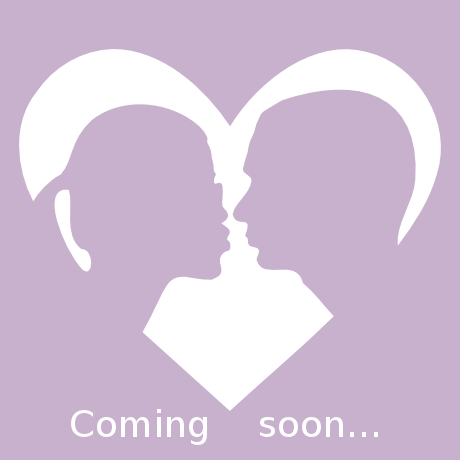
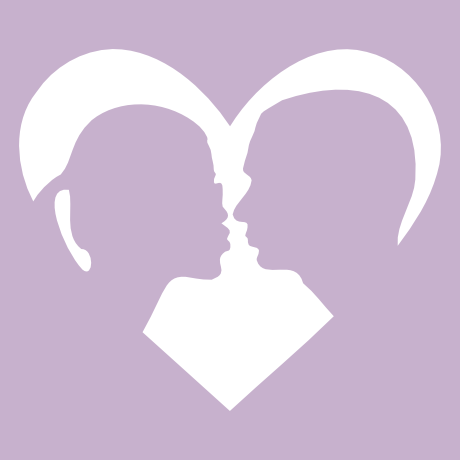
Added small animation to hide the tags

Changed region(s): [[0.1522, 0.8826, 0.4565, 0.9739], [0.5478, 0.8826, 0.7609, 0.9739]]

diff --git a/js/tween.min.js b/js/tween.min.js
@@ -1,0 +1,15 @@
+// tween.js - http://github.com/sole/tween.js
+'use strict';void 0===Date.now&&(Date.now=function(){return(new Date).valueOf()});
+var TWEEN=TWEEN||function(){var a=[];return{REVISION:"12",getAll:function(){return a},removeAll:function(){a=[]},add:function(c){a.push(c)},remove:function(c){c=a.indexOf(c);-1!==c&&a.splice(c,1)},update:function(c){if(0===a.length)return!1;for(var b=0,c=void 0!==c?c:"undefined"!==typeof window&&void 0!==window.performance&&void 0!==window.performance.now?window.performance.now():Date.now();b<a.length;)a[b].update(c)?b++:a.splice(b,1);return!0}}}();
+TWEEN.Tween=function(a){var c={},b={},d={},e=1E3,g=0,h=!1,j=!1,q=0,m=null,v=TWEEN.Easing.Linear.None,w=TWEEN.Interpolation.Linear,n=[],r=null,s=!1,t=null,u=null,k;for(k in a)c[k]=parseFloat(a[k],10);this.to=function(a,c){void 0!==c&&(e=c);b=a;return this};this.start=function(e){TWEEN.add(this);j=!0;s=!1;m=void 0!==e?e:"undefined"!==typeof window&&void 0!==window.performance&&void 0!==window.performance.now?window.performance.now():Date.now();m+=q;for(var f in b){if(b[f]instanceof Array){if(0===b[f].length)continue;
+b[f]=[a[f]].concat(b[f])}c[f]=a[f];!1===c[f]instanceof Array&&(c[f]*=1);d[f]=c[f]||0}return this};this.stop=function(){if(!j)return this;TWEEN.remove(this);j=!1;this.stopChainedTweens();return this};this.stopChainedTweens=function(){for(var a=0,b=n.length;a<b;a++)n[a].stop()};this.delay=function(a){q=a;return this};this.repeat=function(a){g=a;return this};this.yoyo=function(a){h=a;return this};this.easing=function(a){v=a;return this};this.interpolation=function(a){w=a;return this};this.chain=function(){n=
+arguments;return this};this.onStart=function(a){r=a;return this};this.onUpdate=function(a){t=a;return this};this.onComplete=function(a){u=a;return this};this.update=function(p){var f;if(p<m)return!0;!1===s&&(null!==r&&r.call(a),s=!0);var i=(p-m)/e,i=1<i?1:i,j=v(i);for(f in b){var k=c[f]||0,l=b[f];l instanceof Array?a[f]=w(l,j):("string"===typeof l&&(l=k+parseFloat(l,10)),"number"===typeof l&&(a[f]=k+(l-k)*j))}null!==t&&t.call(a,j);if(1==i)if(0<g){isFinite(g)&&g--;for(f in d)"string"===typeof b[f]&&
+(d[f]+=parseFloat(b[f],10)),h&&(i=d[f],d[f]=b[f],b[f]=i),c[f]=d[f];m=p+q}else{null!==u&&u.call(a);f=0;for(i=n.length;f<i;f++)n[f].start(p);return!1}return!0}};
+TWEEN.Easing={Linear:{None:function(a){return a}},Quadratic:{In:function(a){return a*a},Out:function(a){return a*(2-a)},InOut:function(a){return 1>(a*=2)?0.5*a*a:-0.5*(--a*(a-2)-1)}},Cubic:{In:function(a){return a*a*a},Out:function(a){return--a*a*a+1},InOut:function(a){return 1>(a*=2)?0.5*a*a*a:0.5*((a-=2)*a*a+2)}},Quartic:{In:function(a){return a*a*a*a},Out:function(a){return 1- --a*a*a*a},InOut:function(a){return 1>(a*=2)?0.5*a*a*a*a:-0.5*((a-=2)*a*a*a-2)}},Quintic:{In:function(a){return a*a*a*
+a*a},Out:function(a){return--a*a*a*a*a+1},InOut:function(a){return 1>(a*=2)?0.5*a*a*a*a*a:0.5*((a-=2)*a*a*a*a+2)}},Sinusoidal:{In:function(a){return 1-Math.cos(a*Math.PI/2)},Out:function(a){return Math.sin(a*Math.PI/2)},InOut:function(a){return 0.5*(1-Math.cos(Math.PI*a))}},Exponential:{In:function(a){return 0===a?0:Math.pow(1024,a-1)},Out:function(a){return 1===a?1:1-Math.pow(2,-10*a)},InOut:function(a){return 0===a?0:1===a?1:1>(a*=2)?0.5*Math.pow(1024,a-1):0.5*(-Math.pow(2,-10*(a-1))+2)}},Circular:{In:function(a){return 1-
+Math.sqrt(1-a*a)},Out:function(a){return Math.sqrt(1- --a*a)},InOut:function(a){return 1>(a*=2)?-0.5*(Math.sqrt(1-a*a)-1):0.5*(Math.sqrt(1-(a-=2)*a)+1)}},Elastic:{In:function(a){var c,b=0.1;if(0===a)return 0;if(1===a)return 1;!b||1>b?(b=1,c=0.1):c=0.4*Math.asin(1/b)/(2*Math.PI);return-(b*Math.pow(2,10*(a-=1))*Math.sin((a-c)*2*Math.PI/0.4))},Out:function(a){var c,b=0.1;if(0===a)return 0;if(1===a)return 1;!b||1>b?(b=1,c=0.1):c=0.4*Math.asin(1/b)/(2*Math.PI);return b*Math.pow(2,-10*a)*Math.sin((a-c)*
+2*Math.PI/0.4)+1},InOut:function(a){var c,b=0.1;if(0===a)return 0;if(1===a)return 1;!b||1>b?(b=1,c=0.1):c=0.4*Math.asin(1/b)/(2*Math.PI);return 1>(a*=2)?-0.5*b*Math.pow(2,10*(a-=1))*Math.sin((a-c)*2*Math.PI/0.4):0.5*b*Math.pow(2,-10*(a-=1))*Math.sin((a-c)*2*Math.PI/0.4)+1}},Back:{In:function(a){return a*a*(2.70158*a-1.70158)},Out:function(a){return--a*a*(2.70158*a+1.70158)+1},InOut:function(a){return 1>(a*=2)?0.5*a*a*(3.5949095*a-2.5949095):0.5*((a-=2)*a*(3.5949095*a+2.5949095)+2)}},Bounce:{In:function(a){return 1-
+TWEEN.Easing.Bounce.Out(1-a)},Out:function(a){return a<1/2.75?7.5625*a*a:a<2/2.75?7.5625*(a-=1.5/2.75)*a+0.75:a<2.5/2.75?7.5625*(a-=2.25/2.75)*a+0.9375:7.5625*(a-=2.625/2.75)*a+0.984375},InOut:function(a){return 0.5>a?0.5*TWEEN.Easing.Bounce.In(2*a):0.5*TWEEN.Easing.Bounce.Out(2*a-1)+0.5}}};
+TWEEN.Interpolation={Linear:function(a,c){var b=a.length-1,d=b*c,e=Math.floor(d),g=TWEEN.Interpolation.Utils.Linear;return 0>c?g(a[0],a[1],d):1<c?g(a[b],a[b-1],b-d):g(a[e],a[e+1>b?b:e+1],d-e)},Bezier:function(a,c){var b=0,d=a.length-1,e=Math.pow,g=TWEEN.Interpolation.Utils.Bernstein,h;for(h=0;h<=d;h++)b+=e(1-c,d-h)*e(c,h)*a[h]*g(d,h);return b},CatmullRom:function(a,c){var b=a.length-1,d=b*c,e=Math.floor(d),g=TWEEN.Interpolation.Utils.CatmullRom;return a[0]===a[b]?(0>c&&(e=Math.floor(d=b*(1+c))),g(a[(e-
+1+b)%b],a[e],a[(e+1)%b],a[(e+2)%b],d-e)):0>c?a[0]-(g(a[0],a[0],a[1],a[1],-d)-a[0]):1<c?a[b]-(g(a[b],a[b],a[b-1],a[b-1],d-b)-a[b]):g(a[e?e-1:0],a[e],a[b<e+1?b:e+1],a[b<e+2?b:e+2],d-e)},Utils:{Linear:function(a,c,b){return(c-a)*b+a},Bernstein:function(a,c){var b=TWEEN.Interpolation.Utils.Factorial;return b(a)/b(c)/b(a-c)},Factorial:function(){var a=[1];return function(c){var b=1,d;if(a[c])return a[c];for(d=c;1<d;d--)b*=d;return a[c]=b}}(),CatmullRom:function(a,c,b,d,e){var a=0.5*(b-a),d=0.5*(d-c),g=
+e*e;return(2*c-2*b+a+d)*e*g+(-3*c+3*b-2*a-d)*g+a*e+c}}};

diff --git a/plus/index.html b/plus/index.html
@@ -71,6 +71,7 @@
     </div>
     <script src='/js/chilitags.js'></script>
     <script src='/js/three.min.js'></script>
+    <script src='/js/tween.min.js'></script>
     <script type='text/javascript'>
       //<![CDATA[
         var objects = {};
@@ -89,7 +90,21 @@
         
         var root;
         var faceSize = 130;
-        var tagSize = 40;
+        var tagSizeDelta = 2;
+        var tagSize = 30;
+        
+        var started = false;
+        var map = THREE.ImageUtils.loadTexture('/img/silhouette.png');
+        var materials = [];
+        for (var i=0; i<4; i++) {
+             materials.push(new THREE.MeshBasicMaterial(
+                {map: map,
+                 overdraw: true,
+                 transparent: true,
+                 opacity: 0,
+                 side:THREE.DoubleSide
+                 }));
+        }
         
         function setCameraMatrix() {
             var far = 1000;
@@ -106,7 +121,7 @@
         function init() {
             var tagConfig = '%YAML:1.0\n';
             tagConfig += 'face:\n';
-            for (var i=0; i<=150; i++) {
+            for (var i=0; i<=160; i++) {
                 tagConfig += '  - tag: '+(4*i  )+'\n';
                 tagConfig += '    size: 30\n';
                 tagConfig += '    translation: [-30.0, -30.0, 0.]\n';
@@ -128,17 +143,21 @@
         
             root = new THREE.Object3D();
             root.matrixAutoUpdate = false;
-            var cube = new THREE.Mesh(
-                    new THREE.PlaneGeometry(faceSize, faceSize),
-                    new THREE.MeshBasicMaterial(
-                        {map: THREE.ImageUtils.loadTexture('/img/silhouette.png'),
-        overdraw: true,
-        side:THREE.DoubleSide}));
-            cube.position.x = tagSize/2;
-            cube.position.y = tagSize/2;
-            cube.rotation.x = Math.PI;
-            root.add(cube);
-            scene.add(root);
+            var corners = [
+                [-30.0, -30.0],
+                [ 30.0, -30.0],
+                [-30.0,  30.0],
+                [ 30.0,  30.0]
+            ];
+            for (var i = 0; i<4; i++) {
+                var cube = new THREE.Mesh(
+                        new THREE.PlaneGeometry(tagSize+tagSizeDelta, tagSize+tagSizeDelta), materials[i]);
+                cube.position.x = (tagSizeDelta+tagSize)/2+corners[i][0];
+                cube.position.y = (tagSizeDelta+tagSize)/2+corners[i][1];
+                cube.rotation.x = Math.PI;
+                root.add(cube);
+                scene.add(root);
+            }
         
             camera = new THREE.Camera();
             setCameraMatrix();
@@ -186,6 +205,7 @@
         }
         
         function renderLoop() {
+            TWEEN.update();
         
             //Work around Firefox's bug 879717
             var videoIsReady = false;
@@ -201,6 +221,16 @@
         
             var estimations = Chilitags.estimate(videoCanvas, false);
             if ("face" in estimations) {
+                if (!started) {
+                    started = true;
+                    for (var i = 0; i<4; i++) {
+                        new TWEEN.Tween( materials[i] )
+                            .delay(1000*i)
+                            .to({opacity: 1}, 10000 )
+                            .easing( TWEEN.Easing.Elastic.Out)
+                            .start();
+                    }
+                }
                 root.updateMatrix();
                 root.matrix.set.apply(root.matrix, estimations["face"]);
             }
